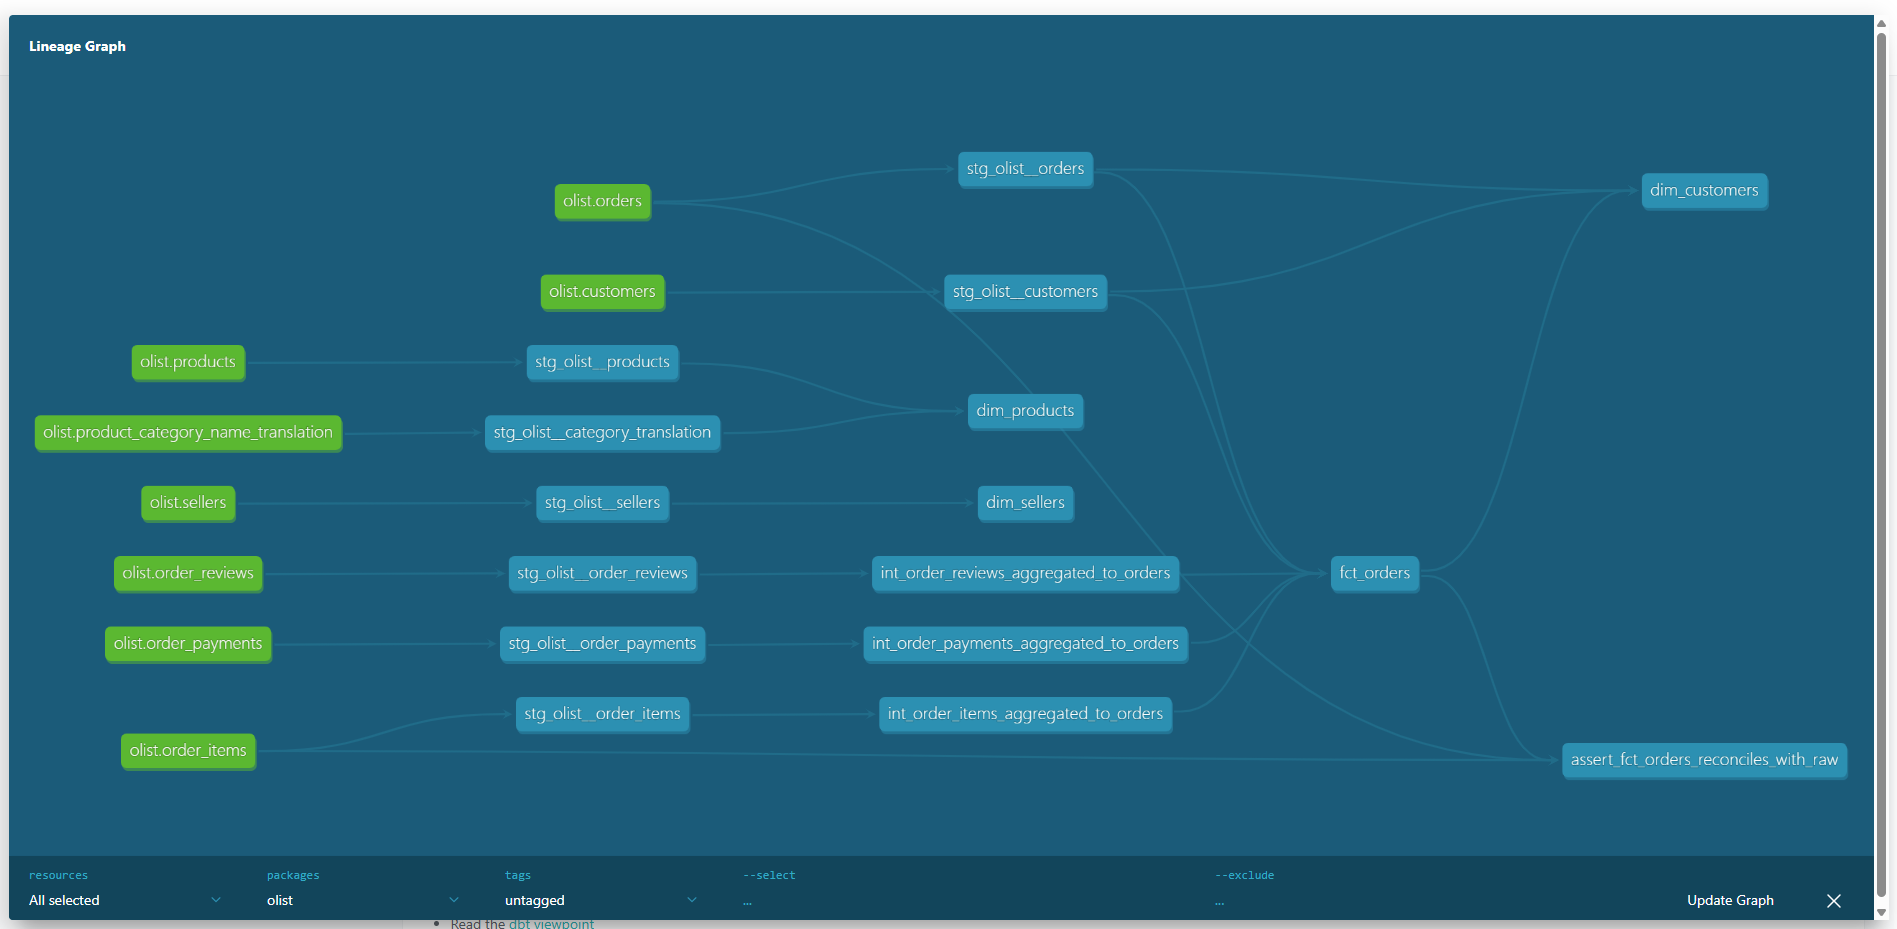
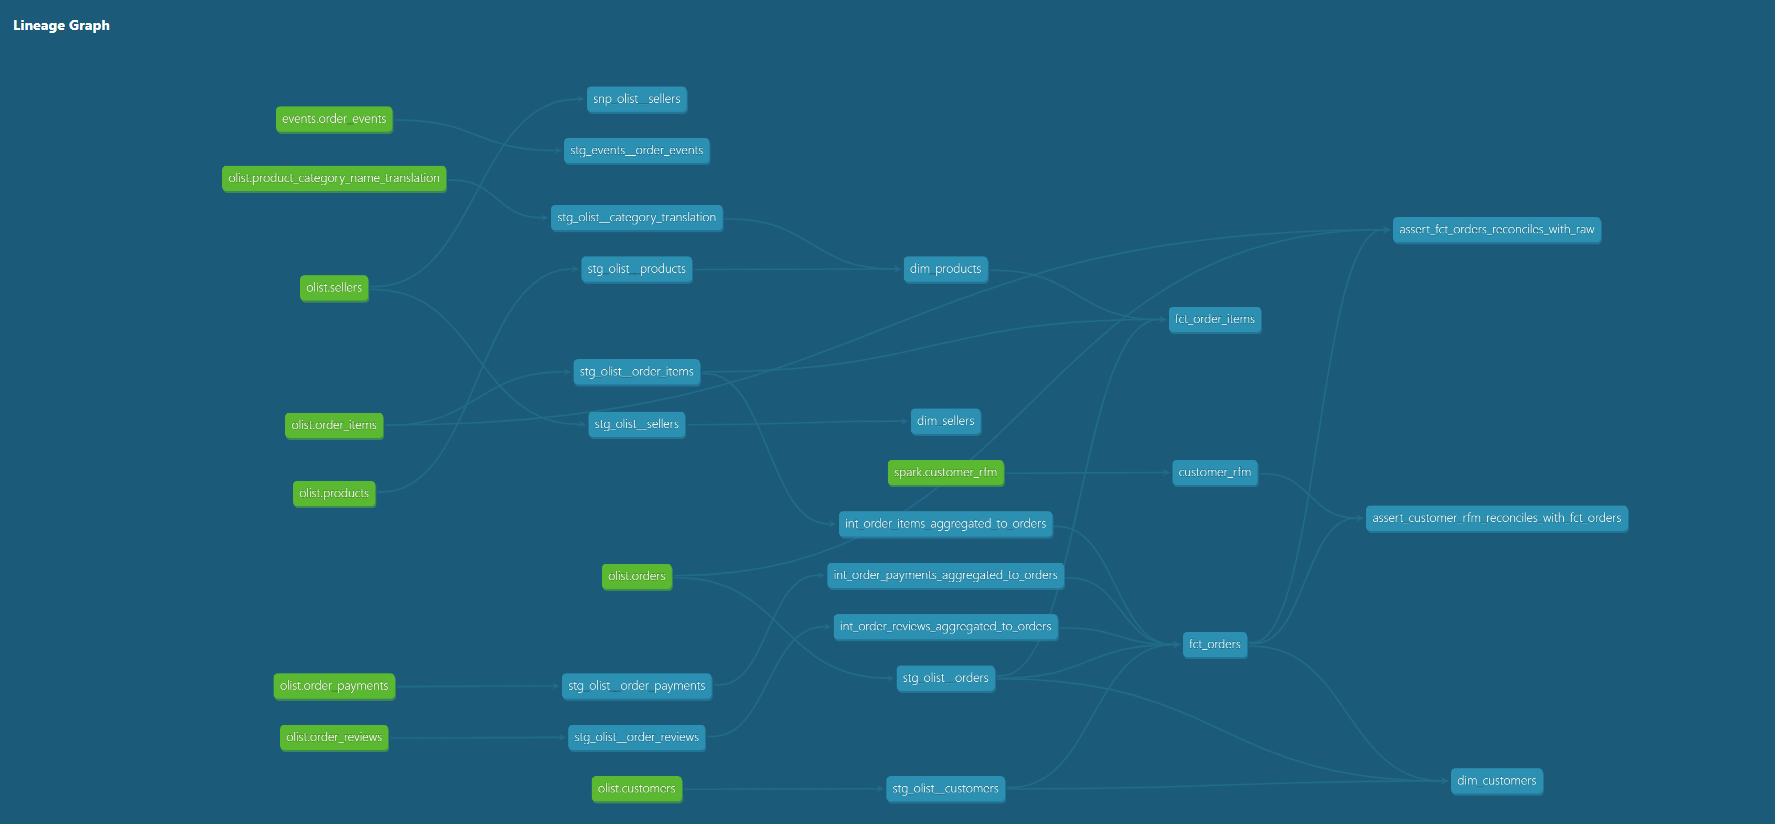
feat(m6): PySpark customer RFM job, dbt customer_rfm model, docs

diff --git a/m6-spark/rfm_job.py b/m6-spark/rfm_job.py
@@ -1,0 +1,92 @@
+"""M6: customer RFM segmentation with PySpark (local mode), next to the DuckDB warehouse."""
+import os
+from pathlib import Path
+
+import duckdb
+from pyspark.sql import SparkSession
+from pyspark.sql import functions as F
+
+HERE = Path(__file__).resolve().parent
+WAREHOUSE = HERE.parent / "m3-ingest-warehouse" / "warehouse" / "olist.duckdb"
+IN_FILE = HERE / "data" / "in" / "fct_orders.parquet"
+OUT_DIR = HERE / "data" / "out" / "customer_rfm"
+EXCLUDED_STATUSES = ["canceled", "unavailable"]   # same revenue rule as the dashboard
+QUINTILES = [0.2, 0.4, 0.6, 0.8]
+
+
+def export_orders() -> None:
+    """Copy the order fact to Parquet. Read-only, so the warehouse is held only for this step."""
+    IN_FILE.parent.mkdir(parents=True, exist_ok=True)
+    with duckdb.connect(str(WAREHOUSE), read_only=True) as con:
+        con.execute(f"""
+            copy (
+                select order_id, customer_unique_id, order_status, purchase_date, order_amount
+                from analytics_marts.fct_orders
+            ) to '{IN_FILE}' (format parquet)
+        """)
+
+
+def bucket(col, cutoffs):
+    """Score 1-5 from 4 cutoffs. Equal values always get the same score (unlike ntile)."""
+    c1, c2, c3, c4 = cutoffs
+    return (F.when(col <= c1, 1).when(col <= c2, 2).when(col <= c3, 3)
+            .when(col <= c4, 4).otherwise(5))
+
+
+def main() -> None:
+    export_orders()
+
+    os.environ.setdefault("SPARK_LOCAL_IP", "127.0.0.1")   # Spark UI and ports on localhost only
+    spark = (SparkSession.builder
+             .master("local[2]")
+             .appName("olist-rfm")
+             .config("spark.driver.memory", "1g")
+             .config("spark.ui.port", "14040")
+             .config("spark.sql.shuffle.partitions", "4")   # default 200 is sized for clusters
+             .config("spark.sql.session.timeZone", "UTC")
+             .getOrCreate())
+
+    orders = (spark.read.parquet(str(IN_FILE))
+              .where(~F.col("order_status").isin(EXCLUDED_STATUSES) & (F.col("order_amount") > 0)))
+
+    # Reference date = day after the last order (the dataset ends in 2018, so not "today")
+    ref_date = orders.agg(F.date_add(F.max("purchase_date"), 1)).first()[0]
+
+    customers = (orders.groupBy("customer_unique_id")
+                 .agg(F.datediff(F.lit(ref_date), F.max("purchase_date")).alias("recency_days"),
+                      F.count("*").alias("frequency"),
+                      F.sum("order_amount").alias("monetary"))
+                 .cache())   # used 3 times below: 2 quantiles + the final write
+
+    r_cut = customers.approxQuantile("recency_days", QUINTILES, 0.001)
+    m_cut = customers.approxQuantile("monetary", QUINTILES, 0.001)
+
+    rfm = (customers
+           .withColumn("r_score", F.lit(6) - bucket(F.col("recency_days"), r_cut))   # fewer days = better
+           .withColumn("f_score", F.least(F.col("frequency"), F.lit(3)))            # 97% buy once: 1 / 2 / 3+
+           .withColumn("m_score", bucket(F.col("monetary"), m_cut))
+           .withColumn("segment",
+                       F.when((F.col("f_score") >= 2) & (F.col("r_score") >= 4), "Champions")
+                        .when(F.col("f_score") >= 2, "Loyal")
+                        .when((F.col("r_score") >= 4) & (F.col("m_score") >= 4), "Promising")
+                        .when(F.col("r_score") >= 4, "New")
+                        .when(F.col("r_score") >= 2, "At risk")
+                        .otherwise("Lost"))
+           .withColumn("reference_date", F.lit(ref_date)))
+
+    # One file is enough for ~95k rows and easier to read from dbt
+    rfm.coalesce(1).write.mode("overwrite").parquet(str(OUT_DIR))
+
+    print("Reference date:", ref_date)
+    print("Recency cutoffs (days):", r_cut)
+    print("Monetary cutoffs:", m_cut)
+    result = spark.read.parquet(str(OUT_DIR))
+    print("Rows written:", result.count())
+    (result.groupBy("segment")
+     .agg(F.count("*").alias("customers"), F.round(F.avg("monetary"), 2).alias("avg_monetary"))
+     .orderBy(F.desc("customers")).show())
+    spark.stop()
+
+
+if __name__ == "__main__":
+    main()

diff --git a/m8-dashboard/publish_marts.py b/m8-dashboard/publish_marts.py
@@ -14,8 +14,9 @@ TABLES = ["fct_orders", "fct_order_items", "dim_customers", "dim_products", "dim
 def main() -> None:
     parser = argparse.ArgumentParser()
     parser.add_argument("--duckdb", required=True, help="path to olist.duckdb")
+    parser.add_argument("--tables", nargs="+", default=TABLES,
+                        help="marts to copy (default: the tables built by the daily DAG)")
     args = parser.parse_args()
-
     # In-memory DuckDB used only as a bridge. In Airflow the extension is preinstalled in the image
     # (DUCKDB_EXTENSION_DIR); a manual run uses the default ~/.duckdb
     ext_dir = os.environ.get("DUCKDB_EXTENSION_DIR")
@@ -27,13 +28,13 @@ def main() -> None:
 
     # One transaction: on failure PostgreSQL keeps the old tables, so the dashboard never sees empty ones
     con.execute("BEGIN")
-    for t in TABLES:
+    for t in args.tables:
         con.execute(f"DROP TABLE IF EXISTS pg.marts.{t}")
         con.execute(f"CREATE TABLE pg.marts.{t} AS SELECT * FROM wh.analytics_marts.{t}")
     con.execute("COMMIT")
 
     mismatched = []
-    for t in TABLES:
+    for t in args.tables:
         src = con.execute(f"SELECT count(*) FROM wh.analytics_marts.{t}").fetchone()[0]
         dst = con.execute(f"SELECT count(*) FROM pg.marts.{t}").fetchone()[0]
         status = "OK" if src == dst else "MISMATCH"

diff --git a/docs/ARCHITECTURE.md b/docs/ARCHITECTURE.md
@@ -14,7 +14,7 @@ flowchart LR
   LAKE -->|"dlt<br/>merge on event_id"| EVT[("DuckDB<br/>raw_events")]
   RAW -->|"dbt"| STG["staging"] --> INT["intermediate"] --> MART[("marts")]
   EVT -->|"dbt"| STG
-  RAW <-->|"PySpark"| SPARK["batch jobs<br/>(e.g. RFM)"]
+  MART -->|"Parquet export<br/>(read-only)"| SPARK["PySpark<br/>customer RFM"] -->|"Parquet, read by dbt"| MART
   MART -->|"publish<br/>(Airflow)"| SRV[("PostgreSQL<br/>serving DB")] --> MB["Metabase"]
 ```
 
@@ -24,10 +24,10 @@ flowchart LR
 | 2 | PostgreSQL → data lake | Airflow DAG | Every daily run copies each full table to one Parquet file in the S3 bucket, under a `dt=<run date>` partition, then checks that row counts match. |
 | 3 | Data lake → warehouse | dlt | Load the run's partition into DuckDB `raw_olist` and merge (upsert) on primary keys, so re-runs do not create duplicates. |
 | 4 | Warehouse → marts | dbt | Clean and model the data: `staging` (rename, cast, fix time zones), `intermediate` (aggregate items, payments and reviews to one row per order), `marts` (facts and dimensions). Includes tests, docs, an incremental model and a snapshot. |
-| 5 | Warehouse ↔ Spark | PySpark | Batch jobs that read from and write back to the warehouse, e.g. customer RFM segmentation. |
+| 5 | Warehouse ↔ Spark | PySpark, dbt | `m6-spark/rfm_job.py` exports `fct_orders` from DuckDB to Parquet over a read-only connection, then Spark (local mode) computes recency, frequency and monetary value per customer, scores them and assigns one of six segments, and writes the result as Parquet. dbt reads that file as a source, builds `customer_rfm` and checks that its customers and revenue match `fct_orders`. The job runs by hand, not in the daily DAG. |
 | 6 | Events → data lake → warehouse | Kafka + consumer, dlt | Faker produces about 5 order events per second with real Olist customer and product IDs, and stops after N minutes. A consumer writes the events to the lake as Parquet micro-batches (every 60 seconds or 5,000 events) and commits Kafka offsets only after the files are written. dlt then reads only the files added since its last run and merges them into DuckDB `raw_events` on `event_id`, so events read twice are not duplicated. dbt cleans them in `stg_events__order_events`. The event load runs by hand, not in the daily DAG. |
-| 7 | Marts → serving DB | Airflow task | After dbt finishes, copy the mart tables from DuckDB to a separate PostgreSQL `serving` database. See [section 6](#6-design-decision-serving-layer-for-bi). |
-| 8 | Serving DB → dashboard | Metabase | Revenue and order dashboards on top of the served marts. |
+| 7 | Marts → serving DB | Airflow task | After dbt finishes, copy the mart tables from DuckDB to a separate PostgreSQL `serving` database. `customer_rfm` is copied by hand with `publish_marts.py --tables customer_rfm`. See [section 6](#6-design-decision-serving-layer-for-bi). |
+| 8 | Serving DB → dashboard | Metabase | Revenue and order dashboard, and an RFM segment dashboard, on top of the served marts. |
 
 ## 2. Data layers
 
@@ -40,7 +40,8 @@ flowchart LR
 | Raw (events) | DuckDB `raw_events` | `raw_events.order_events` | Events as loaded by dlt, one row per `event_id` |
 | Staging | DuckDB `analytics_staging` (views) | `stg_olist__orders`, `stg_events__order_events` | One model per source table: types, names, light cleaning |
 | Intermediate | DuckDB `analytics_intermediate` (views) | `int_order_items_aggregated_to_orders` | Aggregate child tables to one row per order, to avoid fan-out in joins |
-| Marts | DuckDB `analytics_marts` (tables) | `fct_orders`, `fct_order_items`, `dim_customers` | Final business tables |
+| Marts | DuckDB `analytics_marts` (tables) | `fct_orders`, `fct_order_items`, `dim_customers`, `customer_rfm` | Final business tables |
+| Spark files | `m6-spark/data/` (local Parquet, not committed) | `in/fct_orders.parquet`, `out/customer_rfm/` | Input and output of the Spark job |
 | Snapshots | DuckDB `analytics_snapshots` | `snp_olist__sellers` | History of seller changes (SCD type 2) |
 | Serving | PostgreSQL `serving` database, `marts` schema | `marts.fct_orders` (copy) | Read-only copy of the marts for BI tools |
 
@@ -54,13 +55,14 @@ flowchart LR
 | Ingestion | dlt | Handles schema inference and merge loads in a few lines of Python. |
 | Warehouse | DuckDB | Runs in-process with no server and is fast enough for about 100k orders. Replaces BigQuery at $0. |
 | Transformation | dbt Core | Industry standard for SQL modeling, testing and documentation. |
+| Batch processing | PySpark in local mode, OpenJDK 21 | The most common engine for large batch jobs; local mode runs it in one process. Spark cannot read a DuckDB file, so the job exchanges Parquet files with the warehouse instead of holding a connection. OpenJDK from the Ubuntu packages is free for commercial use, unlike Oracle JDK. |
 | Streaming | Apache Kafka (KRaft) | KRaft removes ZooKeeper, so there is one less container. Uses only the Apache images, not Confluent's commercial ones. |
 | Serving DB | PostgreSQL (`serving` database) | Avoids the DuckDB single-writer lock and lets Metabase use its built-in driver. See section 6. |
 | Dashboard | Metabase OSS | Free and quick to set up. Uses the official image and the built-in PostgreSQL driver. |
 
 ## 4. Local runtime
 
-All services run in Docker on one laptop. Every service is bound to `127.0.0.1`, and none is set to restart automatically.
+Everything runs on one laptop: the servers in Docker, the Spark job and the Kafka clients as Python processes in WSL. Every service is bound to `127.0.0.1`, and none is set to restart automatically.
 
 | Service | Host port |
 |---|---|
@@ -70,6 +72,7 @@ All services run in Docker on one laptop. Every service is bound to `127.0.0.1`,
 | Kafka | 19092 |
 | Kafbat UI | 18081 |
 | SeaweedFS S3 | 18333 |
+| Spark UI (only while a job runs) | 14040 |
 
 The ports are offset from the defaults to avoid clashes with other local services.
 Each module that runs services has its own Compose file (`m1-infra`, `m2-orchestration`, `m7-streaming`, `m8-dashboard`), joined by a shared external network `de-net`, so each module starts only what it needs. The total resource budget for WSL2 is 4 GB of RAM and 4 CPUs.
@@ -80,6 +83,7 @@ Each module that runs services has its own Compose file (`m1-infra`, `m2-orchest
 - **At-least-once delivery.** If the consumer stops after writing a file but before committing offsets, the same events are written again. The merge on `event_id` keeps one row per event, and a dbt `unique` test checks it.
 - **Small files.** At about 5 events per second, each flush writes about 300 events. This is fine for learning; a real setup would flush less often or compact the files.
 - **Memory.** Airflow, Kafka and Spark together can go over 4 GB. Start only the services of the current module.
+- **Spark output is not rebuilt by the DAG.** dbt only sees the Parquet file, not that Spark computed it from `fct_orders`. After the marts change, run `rfm_job.py` again, then `dbt build --select customer_rfm`. The model is disabled for the Airflow target, because the Airflow container has no Spark output.
 
 ## 6. Design decision: serving layer for BI
 

diff --git a/README.md b/README.md
@@ -30,7 +30,7 @@ Design details: [docs/ARCHITECTURE.md](docs/ARCHITECTURE.md).
 | Ingestion | dlt |
 | Warehouse | DuckDB |
 | Transformation | dbt Core + dbt-duckdb |
-| Batch processing | PySpark (local mode) |
+| Batch processing | PySpark (local mode) on OpenJDK 21 |
 | Streaming | Apache Kafka (KRaft) + Kafbat UI |
 | Serving DB for BI | PostgreSQL (separate `serving` database) |
 | Dashboard | Metabase OSS |
@@ -42,10 +42,10 @@ Design details: [docs/ARCHITECTURE.md](docs/ARCHITECTURE.md).
 | M1 | [m1-infra/](m1-infra/) | Docker setup, PostgreSQL as the source system, load the dataset |
 | M2 | [m2-orchestration/](m2-orchestration/) | Daily Airflow DAG: PostgreSQL tables → Parquet in the data lake, partitioned by run date |
 | M3 | [m3-ingest-warehouse/](m3-ingest-warehouse/) | dlt: data lake → DuckDB, merge (upsert) on primary keys |
-| M4 | [m4-dbt/](m4-dbt/) | dbt models, tests, docs, incremental models, snapshots |
-| M6 | [m6-spark/](m6-spark/) | PySpark batch job (e.g. customer RFM) |
+| M4 | [m4-dbt/](m4-dbt/) | dbt models, tests, docs, an incremental model, a snapshot |
+| M6 | [m6-spark/](m6-spark/) | PySpark job: customer RFM segments from the order mart (Parquet in, Parquet out), loaded and tested by dbt |
 | M7 | [m7-streaming/](m7-streaming/) | Faker events → Kafka → consumer writes Parquet micro-batches to the data lake → dlt merges them into DuckDB |
-| M8 | [m8-dashboard/](m8-dashboard/) | Publish marts to a PostgreSQL serving DB + revenue and order dashboard |
+| M8 | [m8-dashboard/](m8-dashboard/) | Publish marts to a PostgreSQL serving DB + revenue and order dashboard, and an RFM segment dashboard |
 
 Each module folder has an `images/` folder with screenshots of its output.
 
@@ -65,6 +65,10 @@ The CSV files are **not committed** to this repo. To run the project, download t
 Metabase dashboard on the served marts:
 
 ![Metabase dashboard](m8-dashboard/images/dashboard.png)
+
+Customer RFM segments computed by the PySpark job:
+
+![RFM segments](m6-spark/images/rfm-segments.png)
 
 More screenshots are in each module's `images/` folder.
 
@@ -154,7 +158,7 @@ docker compose logs -f metabase | grep -m1 -E "Initialization (COMPLETE|FAILED)"
 
 Open http://127.0.0.1:13000, create a local admin account, then add a database: PostgreSQL, host `de-postgres`, port `5432`, database `serving`, user `bi_reader`, password `BI_READER_PASSWORD` from `m8-dashboard/.env`, schema `marts`. The dashboard itself lives in Metabase's own database and is not exported to this repo.
 
-### Run M3 / M4 by hand (optional)
+### 6. Run M3 / M4 by hand (optional)
 
 ```bash
 cd m3-ingest-warehouse
@@ -168,9 +172,32 @@ DO_NOT_TRACK=1 dbt build --profiles-dir .
 
 Do not open the DuckDB file by hand while the DAG is running: DuckDB allows only one writer.
 
-### 6. M7: streaming (optional)
+### 7. M6: Spark RFM (optional)
 
-Needs M1 running and the M3 / M4 virtual environments from the step above. Stop Airflow first: Kafka needs the memory, and the event load writes to the same DuckDB file as the DAG.
+Needs the warehouse built by the DAG (step 4) and the M4 virtual environment (step 6). No containers are needed for the Spark job itself.
+
+```bash
+sudo apt install -y openjdk-21-jre-headless   # Java runtime for Spark
+cd m6-spark
+python3 -m venv .venv && source .venv/bin/activate && pip install -r requirements.txt
+python rfm_job.py                 # exports fct_orders read-only, writes data/out/customer_rfm/
+deactivate && cd ../m4-dbt && source .venv/bin/activate
+DO_NOT_TRACK=1 dbt build --profiles-dir . --select customer_rfm
+```
+
+While the job runs, the Spark UI is at http://127.0.0.1:14040. To show the segments in Metabase, start M1 and copy the table to the serving database:
+
+```bash
+cd ../m8-dashboard
+export PGHOST=127.0.0.1 PGPORT=15432 PGDATABASE=serving PGUSER=serving_writer
+export PGPASSWORD=$(grep '^SERVING_WRITER_PASSWORD=' .env | cut -d= -f2)
+python publish_marts.py --duckdb ../m3-ingest-warehouse/warehouse/olist.duckdb --tables customer_rfm
+unset PGPASSWORD
+```
+
+### 8. M7: streaming (optional)
+
+Needs M1 running and the M3 / M4 virtual environments (step 6). Stop Airflow first: Kafka needs the memory, and the event load writes to the same DuckDB file as the DAG.
 
 ```bash
 (cd m2-orchestration && docker compose down && docker compose up -d seaweedfs)
